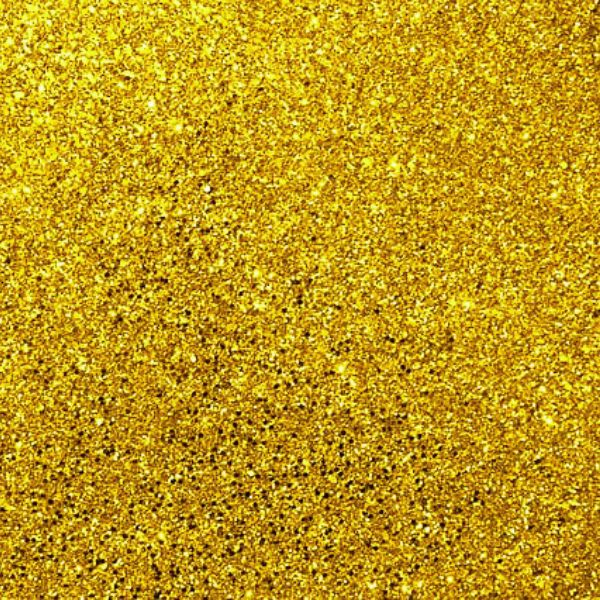
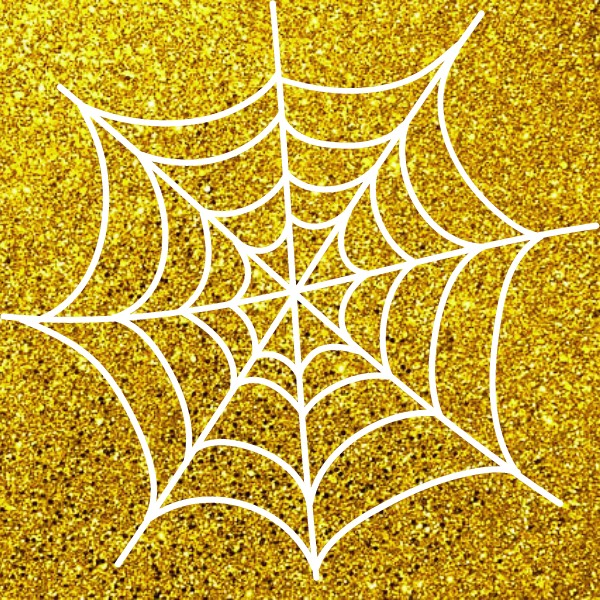
adjustments

Changed region(s): [[0.0, 0.0, 1.0, 0.99], [0.72, 0.99, 0.75, 1.0], [0.09, 0.99, 0.12, 1.0]]

diff --git a/main.css b/main.css
@@ -20,7 +20,7 @@ body {
   -webkit-background-size: cover;
   -moz-background-size: cover;
   -o-background-size: cover;
-  background-size: cover;
+  background-size:cover;
   min-height: 100vh;
   -webkit-text-size-adjust: none;
    -moz-text-size-adjust: none;
@@ -52,14 +52,8 @@ body {
 }
 } */
 
-.pacifico-regular {
-font-family: "Pacifico", cursive;
-font-weight: 400;
-font-style: normal;
-}
-
 .pagetop h1 {
-font-family: "Pacifico", cursive;
+font-family: "Creepster", cursive;
 display:flexbox;
 font-weight: 400;
 flex-direction: column;
@@ -67,6 +61,9 @@ font-size: calc(4rem + 1vw);
 text-align: center;
 text-shadow: 4px 6px #FFFFFF;
 } 
+.pagetop h1 #or {
+  font-size: calc(3rem + 3vw);
+}
 .pagetop h3 {
 font-family: "Roboto", sans-serif;
 flex-direction: column;
@@ -77,7 +74,6 @@ font-weight: 400;
 } 
 .pagetop h4 {
   font-family: "Roboto", sans-serif;
-  background-color: #FFFFFF;
   display:flex;
   font-weight: 400;
   color: #000000;
@@ -94,6 +90,11 @@ font-weight: 400;
     font-size:4vmin;
     text-align: center;
     } 
+
+/* #t1 #boy{
+ background: url(images/back1.png) no-repeat center center;
+ background-size: contain;
+} */
 #scratcher-box {
   width:22em;
   align-content: center;
@@ -120,7 +121,12 @@ font-weight: 400;
   #t1 {
     transform: translateX(-10%) scale(0.7, 0.7);
   }
-  
+  .pagetop h1 #or {
+    font-size: calc(2rem + 3vw);
+  }
+  .pagetop h1 {
+    font-size: calc(3rem + 3vw);
+  }
 }
 
 @media (min-width: 321px), (max-width:1024){ 
@@ -128,8 +134,10 @@ font-weight: 400;
     font-size: calc(0.7rem + 1vw) ;
   }
   .pagetop h1 {
-    font-size: calc(2rem + 3vw);
-
+    font-size: calc(3rem + 3vw);
+  }
+  .pagetop h1 #or {
+    font-size: calc(2rem + 1vw);
   }
 }
 

diff --git a/index.html b/index.html
@@ -3,7 +3,7 @@
 <head>
   <link rel="preconnect" href="https://fonts.googleapis.com">
   <link rel="preconnect" href="https://fonts.gstatic.com" crossorigin>
-  <link href="https://fonts.googleapis.com/css2?family=Pacifico&family=Roboto:wght@400;700&display=swap" rel="stylesheet">
+  <link href="https://fonts.googleapis.com/css2?family=Creepster&display=swap&family=Roboto:wght@400;700&display=swap" rel="stylesheet">
 
 
 <meta charset="utf-8">
@@ -52,15 +52,19 @@
  
  
 <h1 id="title"> 
-  <table id="t1" border="1" style= "width: 350px;margin-left: auto;margin-right: auto;">
-    <tr background="image/back.gif" >
-    <td style="text-align: left;padding-left: 10px";> <span id="boy" style="color:#7FB1ED;">Witch </span></td>
+  <table id="t1" style= "width: 350px;margin-left: auto;margin-right: auto;">
+    <tr>
+    <td style="text-align: left;padding-left: 10px";> <span id="boy" style="color:#7FB1ED;">Boo-y</span></td>
+    <td style="text-align: center;padding-left: 10px";> <img src="images/back1.png" style="width: 100px;" ></img></td>
+
     </tr>
     <tr style="line-height: 10px">
-    <td style="text-align: center;"><span id="or" style="color: #000000">or</span></td>
+    <td style="text-align: center;"colspan="2"><span id="or" style="color: #000000">or</span></td>
     </tr>
     <tr background="image/back.gif">
-      <td style="text-align: right;padding-right: 10px";><span id="girl" style=color:#ffc0cb>Wizard</span></td>
+
+      <td style="text-align: right;padding-right: 10px"colspan="2";><span id="girl" style=color:#ffc0cb>Ghoul</span></td>
+      
     </tr>
     </table>
  

diff --git a/main_landscape.css b/main_landscape.css
@@ -41,11 +41,6 @@ body {
 }
 } */
 
-.pacifico-regular {
-font-family: "Pacifico", cursive;
-font-weight: 400;
-font-style: normal;
-}
 .pagetop{
   position:relative;
   display: block;
@@ -54,7 +49,7 @@ font-style: normal;
   top: 45%;
 }
 .pagetop h1 {
-font-family: "Pacifico", cursive;
+font-family: "Creepster", cursive;
 display:flexbox;
 font-weight: 400;
 flex-direction: column;
@@ -132,7 +127,7 @@ font-weight: 200;
     scale: 0.8;
     top:40% ;
   } 
-
+  
 }
 @media (min-height: 352px), (max-height: 400px) { 
   .pagetop h4 {
@@ -152,6 +147,7 @@ font-weight: 200;
     scale: 0.9;
     top:50% ;
   }
+  
 }
 
 
